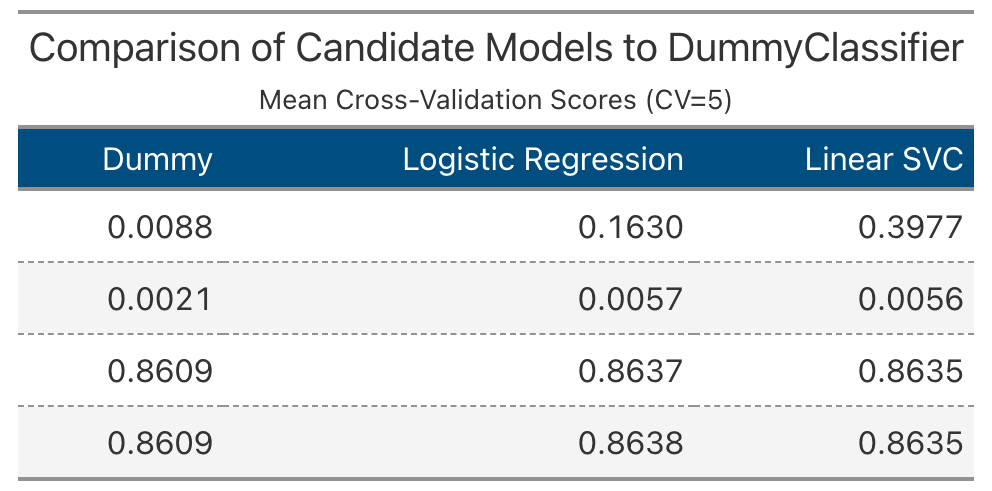
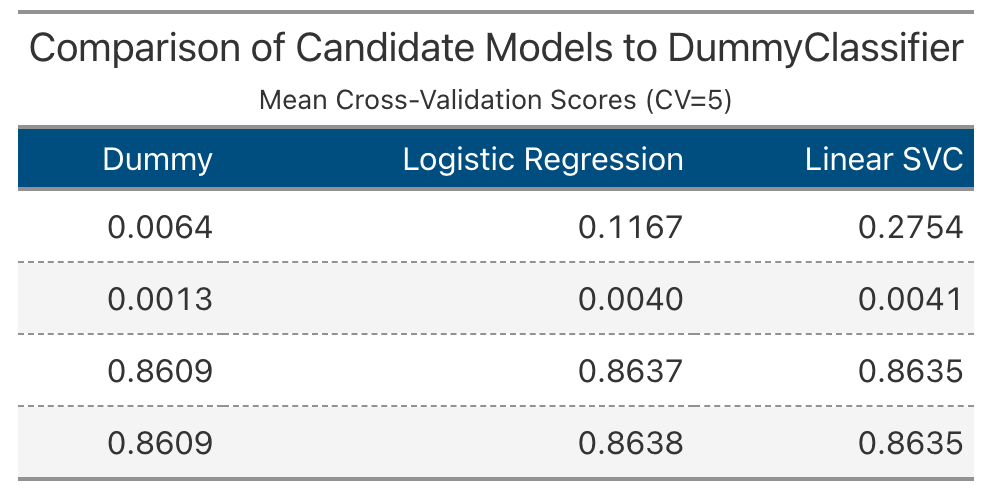
modified script 17 and 18 to output scores into .csv files

diff --git a/src/18_model_testing.py b/src/18_model_testing.py
@@ -58,6 +58,8 @@ def model_testing(x_test, y_test, out_dir="results/models"):
     test_results = {"Logistic Regression": accuracy_lr, "Linear SVC": accuracy_svc}
 
     test_results = pd.DataFrame([test_results], index=['Accuracy'])
+    # Also output as csv for score readin from quarto 
+    test_results.to_csv(os.path.join(out_dir, "model_testing"), index=False)
 
     # ============================ Export Great Table
     great_table2 = (

diff --git a/src/17_model_validation_training.py b/src/17_model_validation_training.py
@@ -102,6 +102,8 @@ def model_training(x_train, y_train, out_dir="results/models"):
     }
 
     results_table = pd.DataFrame(results)
+    # Also output as csv for score readin from quarto 
+    results_table.to_csv(os.path.join(out_dir, "model_training"), index=False)
 
     # ============================ Export Great Table
     # Ian Gault: used ChatGPT5 to help introduce me to great_table package
